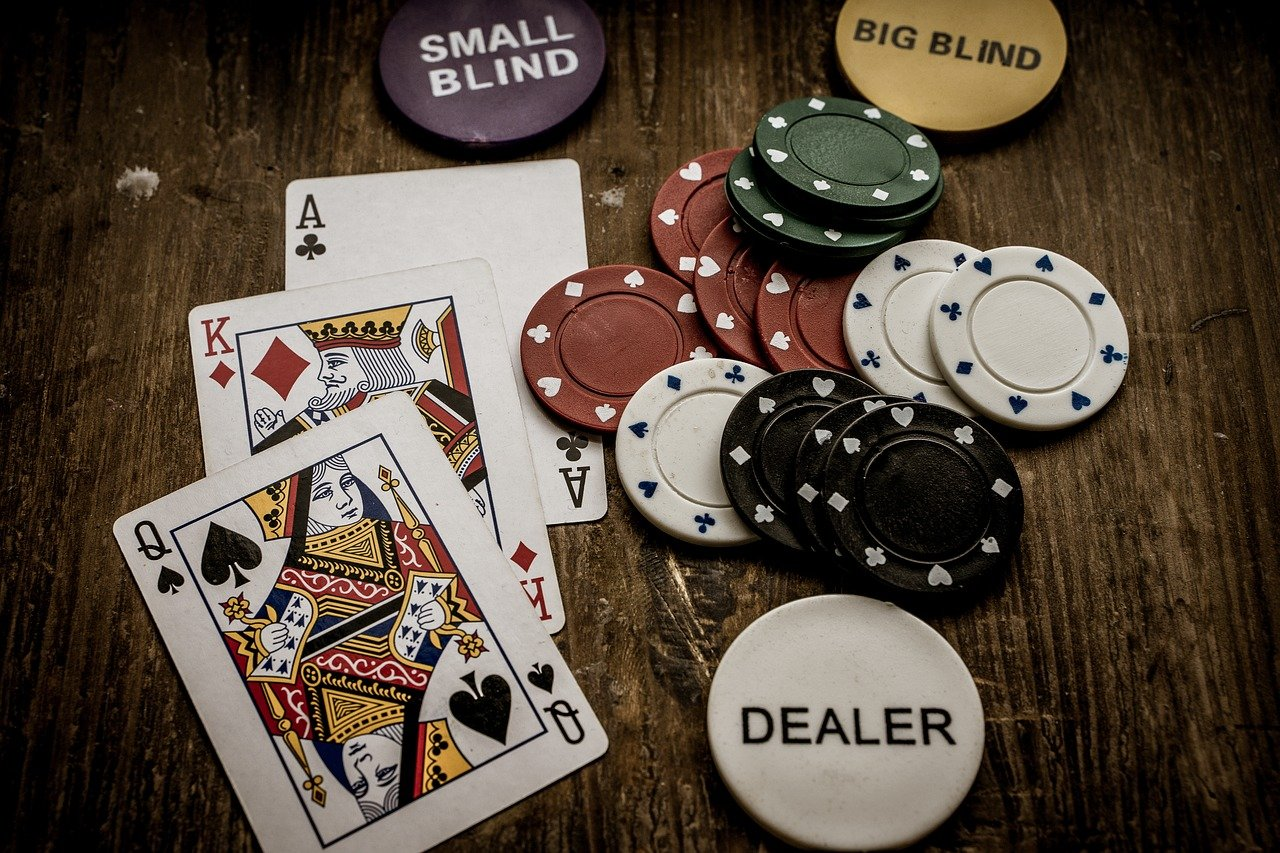
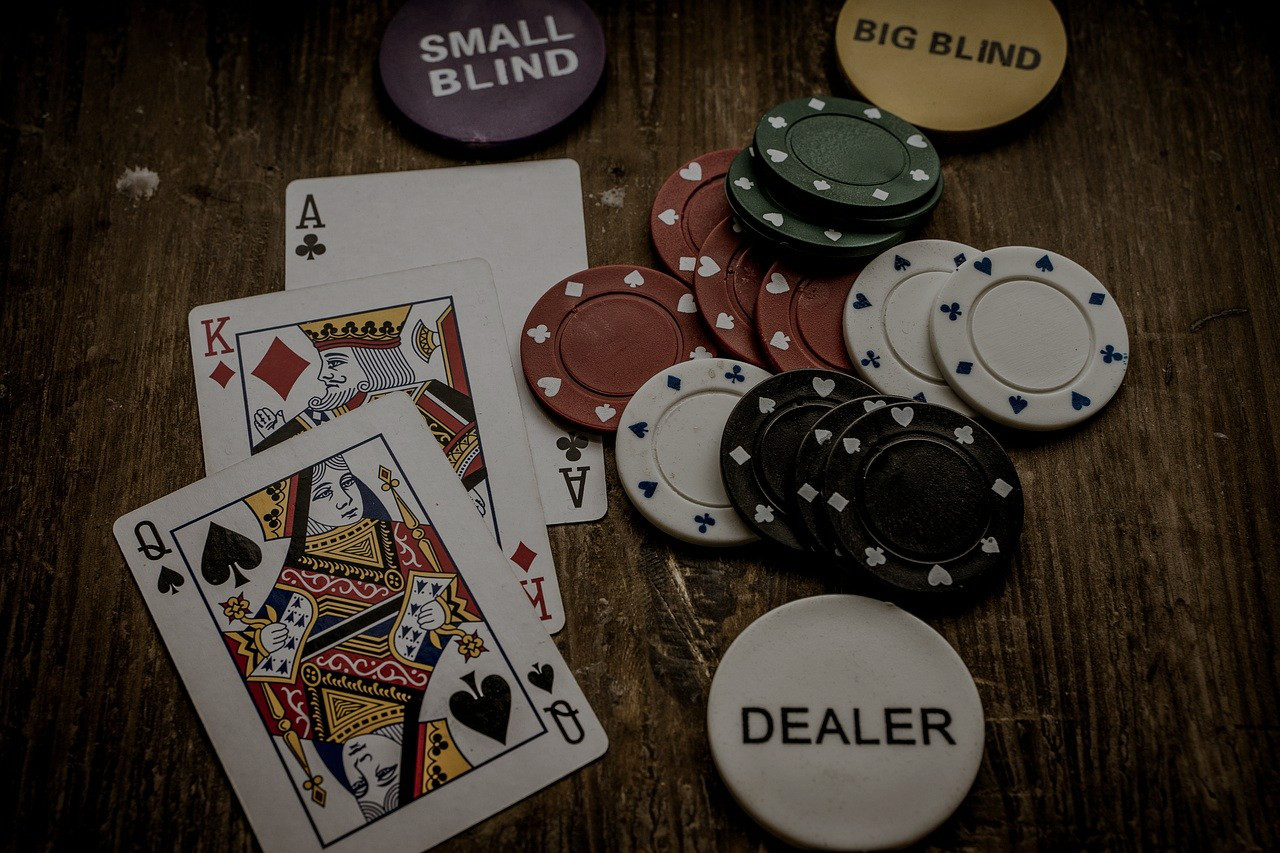
feat: deixar fundo um pouco mais escuro

diff --git a/lib/app/widgets/fundo/fundo_widget.dart b/lib/app/widgets/fundo/fundo_widget.dart
@@ -12,7 +12,10 @@ class FundoWidget extends StatelessWidget {
         height: size.height,
         decoration: BoxDecoration(
           image: DecorationImage(
-              image: AssetImage('imagens/fundo.jpg'), fit: BoxFit.cover),
+              image: AssetImage(
+                'imagens/fundo.jpg',
+              ),
+              fit: BoxFit.cover),
         ),
         child: widget);
   }
